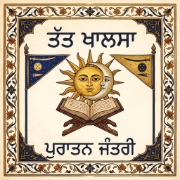
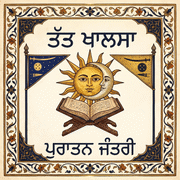
docs(meta): update site name and Open Graph metadata
Update site title and OG tags to reflect "Tat Khalsa" branding.
Replace social media image with an updated version and include
proper image metadata.

diff --git a/src/utils/icsExport.ts b/src/utils/icsExport.ts
@@ -14,7 +14,7 @@ import {
 } from './personalDates';
 
 /**
- * Pure RFC 5545 iCalendar (.ics) generator for Tatkhalsa Puratan Jantri.
+ * Pure RFC 5545 iCalendar (.ics) generator for Tat Khalsa Puratan Jantri.
  * Supports both selective observance export AND full 365-day daily Bikrami + Lunar date export
  * (combining same-day Purabs, Sangrands, Puranmashi, Masya, Shaheedi Divases, Barsis, and Personal Desi Dates cleanly into each daily VEVENT).
  */
@@ -159,7 +159,7 @@ export function generateJantriIcs(
 
       // Special observances appended after em-dash when checked
       const highlights: string[] = [];
-      const categories = new Set<string>(['Tatkhalsa Puratan Jantri', 'Daily Bikrami']);
+      const categories = new Set<string>(['Tat Khalsa Puratan Jantri', 'Daily Bikrami']);
 
       if (options.includeSangrands && solar.isSangrand) {
         highlights.push(
@@ -257,7 +257,7 @@ export function generateJantriIcs(
           description: isPa
             ? `ਪੁਰਾਤਨ ਬਿਕ੍ਰਮੀ ਸੰਗਰਾਂਦ (${meta.barahMahaRefPa})। ਸੰਕ੍ਰਾਂਤੀ (ਸ੍ਰੀ ਅਨੰਦਪੁਰ ਸਾਹਿਬ IST): ${sankrantiDual.amritsarTime}, ${sankrantiDual.amritsarDate}। ਬਾਰਹ ਮਾਹਾ: ${meta.pothiUrl}\nhttps://calendar.tatkhalsa.in/`
             : `Puratan Bikrami Sangrand (${meta.barahMahaRefEn}). Sankranti (Sri Anandpur Sahib IST): ${sankrantiDual.amritsarTime}, ${sankrantiDual.amritsarDate}. Read Barah Maha: ${meta.pothiUrl}\nhttps://calendar.tatkhalsa.in/`,
-          categories: 'Sangrand,Tatkhalsa Puratan Jantri',
+          categories: 'Sangrand,Tat Khalsa Puratan Jantri',
         });
       }
     }
@@ -282,7 +282,7 @@ export function generateJantriIcs(
               description: isPa
                 ? `ਪੁਰਾਤਨ ਬਿਕ੍ਰਮੀ ਚੰਦਰ ਤਿਥੀ: ${lunar.lunarMonthPa} ਸੁਦੀ ੧੫ (ਪੂਰਨਮਾਸ਼ੀ)। ਸੂਰਜੀ ਤਾਰੀਖ਼: ${toGurmukhiNumerals(solar.day)} ${solar.monthMeta.namePa}, ਸੰਮਤ ${toGurmukhiNumerals(solar.sambat)}। ਤਿਥੀ ਸਮਾਪਤੀ (ਸ੍ਰੀ ਅਨੰਦਪੁਰ ਸਾਹਿਬ IST): ${tithiDual.amritsarTime}, ${tithiDual.amritsarDate}\nhttps://calendar.tatkhalsa.in/`
                 : `Puratan Bikrami Lunar Tithi: ${lunar.lunarMonthEn} Sudhi 15 (Puranmashi). Solar Date: ${solar.day} ${solar.monthMeta.nameEn}, Sambat ${solar.sambat}. Tithi ends (Sri Anandpur Sahib IST): ${tithiDual.amritsarTime}, ${tithiDual.amritsarDate}\nhttps://calendar.tatkhalsa.in/`,
-              categories: 'Puranmashi,Tatkhalsa Puratan Jantri',
+              categories: 'Puranmashi,Tat Khalsa Puratan Jantri',
             });
           }
           if (options.includeMasya && lunar.isMasya) {
@@ -297,7 +297,7 @@ export function generateJantriIcs(
               description: isPa
                 ? `ਪੁਰਾਤਨ ਬਿਕ੍ਰਮੀ ਚੰਦਰ ਤਿਥੀ: ${lunar.lunarMonthPa} ਵਦੀ ੧੫ (ਮੱਸਿਆ)। ਸੂਰਜੀ ਤਾਰੀਖ਼: ${toGurmukhiNumerals(solar.day)} ${solar.monthMeta.namePa}, ਸੰਮਤ ${toGurmukhiNumerals(solar.sambat)}। ਤਿਥੀ ਸਮਾਪਤੀ (ਸ੍ਰੀ ਅਨੰਦਪੁਰ ਸਾਹਿਬ IST): ${tithiDual.amritsarTime}, ${tithiDual.amritsarDate}\nhttps://calendar.tatkhalsa.in/`
                 : `Puratan Bikrami Lunar Tithi: ${lunar.lunarMonthEn} Vadhi 15 (Masya). Solar Date: ${solar.day} ${solar.monthMeta.nameEn}, Sambat ${solar.sambat}. Tithi ends (Sri Anandpur Sahib IST): ${tithiDual.amritsarTime}, ${tithiDual.amritsarDate}\nhttps://calendar.tatkhalsa.in/`,
-              categories: 'Masya,Tatkhalsa Puratan Jantri',
+              categories: 'Masya,Tat Khalsa Puratan Jantri',
             });
           }
         }
@@ -324,7 +324,7 @@ export function generateJantriIcs(
         description: isPa
           ? `${toGurmukhiNumerals(solar.day)} ${solar.monthMeta.namePa} ${toGurmukhiNumerals(solar.sambat)} · ${ev.tithiRulePa}\nਤਿਥੀ ਸਮਾਪਤੀ (ਸ੍ਰੀ ਅਨੰਦਪੁਰ ਸਾਹਿਬ IST): ${tithiDual.amritsarTime}, ${tithiDual.amritsarDate}\n${ev.summaryPa}\nਹਵਾਲੇ: ${citationsLine}\nhttps://calendar.tatkhalsa.in/`
           : `${solar.day} ${solar.monthMeta.nameEn} ${solar.sambat} · ${ev.tithiRuleEn}\nTithi ends (Sri Anandpur Sahib IST): ${tithiDual.amritsarTime}, ${tithiDual.amritsarDate}\n${ev.summaryEn}\nSources: ${citationsLine}\nhttps://calendar.tatkhalsa.in/`,
-        categories: `${ev.category.toUpperCase()},Tatkhalsa Puratan Jantri`,
+        categories: `${ev.category.toUpperCase()},Tat Khalsa Puratan Jantri`,
       });
     }
 
@@ -349,7 +349,7 @@ export function generateJantriIcs(
               ...(pd.notes ? [pd.notes] : []),
               'https://calendar.tatkhalsa.in/',
             ].join('\n'),
-            categories: 'Personal Desi Date,Tatkhalsa Puratan Jantri',
+            categories: 'Personal Desi Date,Tat Khalsa Puratan Jantri',
           });
         }
       }
@@ -361,10 +361,10 @@ export function generateJantriIcs(
   const header = [
     'BEGIN:VCALENDAR',
     'VERSION:2.0',
-    'PRODID:-//Tatkhalsa Foundation//Tatkhalsa Puratan Jantri//EN',
+    'PRODID:-//Tatkhalsa Foundation//Tat Khalsa Puratan Jantri//EN',
     'CALSCALE:GREGORIAN',
     'METHOD:PUBLISH',
-    `X-WR-CALNAME:${isPa ? 'ਤੱਤਖ਼ਾਲਸਾ ਪੁਰਾਤਨ ਜੰਤਰੀ (੨੦੮੩–੨੦੮੪)' : 'Tatkhalsa Puratan Jantri (Sambat 2083–2084)'}`,
+    `X-WR-CALNAME:${isPa ? 'ਤੱਤਖ਼ਾਲਸਾ ਪੁਰਾਤਨ ਜੰਤਰੀ (੨੦੮੩–੨੦੮੪)' : 'Tat Khalsa Puratan Jantri (Sambat 2083–2084)'}`,
     'X-WR-TIMEZONE:Asia/Kolkata',
   ];
 
@@ -388,14 +388,14 @@ export function generateSingleDayIcs(
       date: isoDate,
       summary: title,
       description: `${description}\nhttps://calendar.tatkhalsa.in/`,
-      categories: 'Tatkhalsa Puratan Jantri',
+      categories: 'Tat Khalsa Puratan Jantri',
     },
     dtStamp,
   );
   return [
     'BEGIN:VCALENDAR',
     'VERSION:2.0',
-    'PRODID:-//Tatkhalsa Foundation//Tatkhalsa Puratan Jantri//EN',
+    'PRODID:-//Tatkhalsa Foundation//Tat Khalsa Puratan Jantri//EN',
     'CALSCALE:GREGORIAN',
     'METHOD:PUBLISH',
     eventBlock,

diff --git a/index.html b/index.html
@@ -3,7 +3,7 @@
   <head>
     <meta charset="UTF-8" />
     <meta name="viewport" content="width=device-width, initial-scale=1.0" />
-    <title>Tatkhalsa Puratan Jantri — Bikrami Sambat 2083–2084</title>
+    <title>Tat Khalsa Puratan Jantri — Bikrami Sambat 2083–2084</title>
     <meta
       name="description"
       content="Authentic Puratan Bikrami Sambat calendar by Tatkhalsa Foundation. Track Punjabi solar months, Sangrands, lunar tithis, Gurpurabs, and archival colophons."
@@ -13,34 +13,38 @@
     <!-- Open Graph / Social -->
     <meta property="og:type" content="website" />
     <meta property="og:url" content="https://calendar.tatkhalsa.in/" />
-    <meta property="og:site_name" content="Tatkhalsa Puratan Jantri" />
-    <meta property="og:title" content="Tatkhalsa Puratan Jantri — Bikrami Sambat 2083–2084" />
+    <meta property="og:site_name" content="Tat Khalsa Puratan Jantri" />
+    <meta property="og:title" content="Tat Khalsa Puratan Jantri — Bikrami Sambat 2083–2084" />
     <meta
       property="og:description"
       content="Authentic Puratan Bikrami Sambat calendar by Tatkhalsa Foundation. Track Punjabi solar months, Sangrands, lunar tithis, Gurpurabs, and archival colophons."
     />
-    <meta property="og:image" content="https://calendar.tatkhalsa.in/logo.png" />
-    <meta property="og:image:alt" content="Tatkhalsa Puratan Jantri — Bikrami Sambat 2083–2084" />
+    <meta property="og:image" content="https://calendar.tatkhalsa.in/og-jantri-v2.png" />
+    <meta property="og:image:secure_url" content="https://calendar.tatkhalsa.in/og-jantri-v2.png" />
+    <meta property="og:image:type" content="image/png" />
+    <meta property="og:image:width" content="1024" />
+    <meta property="og:image:height" content="1024" />
+    <meta property="og:image:alt" content="Tat Khalsa Puratan Jantri — Bikrami Sambat 2083–2084" />
     <meta property="og:locale" content="en_IN" />
     <meta property="og:locale:alternate" content="pa_IN" />
 
     <!-- Twitter / X -->
     <meta name="twitter:card" content="summary_large_image" />
-    <meta name="twitter:title" content="Tatkhalsa Puratan Jantri — Bikrami Sambat 2083–2084" />
+    <meta name="twitter:title" content="Tat Khalsa Puratan Jantri — Bikrami Sambat 2083–2084" />
     <meta
       name="twitter:description"
       content="Authentic Puratan Bikrami Sambat calendar by Tatkhalsa Foundation. Track Punjabi solar months, Sangrands, lunar tithis, Gurpurabs, and archival colophons."
     />
-    <meta name="twitter:image" content="https://calendar.tatkhalsa.in/logo.png" />
+    <meta name="twitter:image" content="https://calendar.tatkhalsa.in/og-jantri-v2.png" />
 
     <!-- PWA & Mobile Safari -->
     <meta name="theme-color" content="#FAF6EE" />
     <meta name="mobile-web-app-capable" content="yes" />
     <meta name="apple-mobile-web-app-capable" content="yes" />
     <meta name="apple-mobile-web-app-status-bar-style" content="default" />
-    <meta name="apple-mobile-web-app-title" content="Tatkhalsa" />
-    <link rel="apple-touch-icon" href="./apple-touch-icon.png" />
-    <link rel="icon" type="image/png" href="./logo.png" />
+    <meta name="apple-mobile-web-app-title" content="Tat Khalsa" />
+    <link rel="apple-touch-icon" href="./apple-touch-icon.png?v=2" />
+    <link rel="icon" type="image/png" href="./logo.png?v=2" />
 
     <!-- Typography: Archival Serif + Gurmukhi + Tabular Mono -->
     <link rel="preconnect" href="https://fonts.googleapis.com" />
@@ -55,7 +59,7 @@
       {
         "@context": "https://schema.org",
         "@type": "WebApplication",
-        "name": "Tatkhalsa Puratan Jantri",
+        "name": "Tat Khalsa Puratan Jantri",
         "alternateName": "ਤੱਤਖ਼ਾਲਸਾ ਪੁਰਾਤਨ ਜੰਤਰੀ",
         "url": "https://calendar.tatkhalsa.in",
         "applicationCategory": "ReferenceApplication",

diff --git a/src/components/Header.tsx b/src/components/Header.tsx
@@ -123,12 +123,12 @@ export const Header: React.FC<HeaderProps> = ({
             onClick={() => onSelectView('jantri')}
             className="flex items-center gap-2 sm:gap-2.5 text-left whitespace-nowrap shrink-0 min-w-0 cursor-pointer focus-visible:outline-2 focus-visible:outline-offset-2 focus-visible:outline-[var(--accent-primary)]"
             aria-label={
-              isPa ? 'ਤੱਤਖ਼ਾਲਸਾ ਪੁਰਾਤਨ ਜੰਤਰੀ — ਮੁੱਖ ਪੰਨਾ' : 'Tatkhalsa Puratan Jantri — Home'
+              isPa ? 'ਤੱਤਖ਼ਾਲਸਾ ਪੁਰਾਤਨ ਜੰਤਰੀ — ਮੁੱਖ ਪੰਨਾ' : 'Tat Khalsa Puratan Jantri — Home'
             }
           >
             <img
-              src="./logo.png"
-              alt={isPa ? 'ਤੱਤਖ਼ਾਲਸਾ ਪੁਰਾਤਨ ਜੰਤਰੀ ਮੋਹਰ' : 'Tatkhalsa Puratan Jantri Logo'}
+              src="./logo.png?v=2"
+              alt={isPa ? 'ਤੱਤਖ਼ਾਲਸਾ ਪੁਰਾਤਨ ਜੰਤਰੀ ਮੋਹਰ' : 'Tat Khalsa Puratan Jantri Logo'}
               width={36}
               height={36}
               className="w-9 h-9 sm:w-10 sm:h-10 rounded-lg border border-[var(--accent-gold)] object-cover shrink-0 shadow-xs bg-[#FAF6EE]"
@@ -140,7 +140,7 @@ export const Header: React.FC<HeaderProps> = ({
             >
               <span className="sm:hidden">{isPa ? 'ਪੁਰਾਤਨ ਜੰਤਰੀ' : 'Puratan Jantri'}</span>
               <span className="hidden sm:inline">
-                {isPa ? 'ਤੱਤਖ਼ਾਲਸਾ ਪੁਰਾਤਨ ਜੰਤਰੀ' : 'Tatkhalsa Puratan Jantri'}
+                {isPa ? 'ਤੱਤਖ਼ਾਲਸਾ ਪੁਰਾਤਨ ਜੰਤਰੀ' : 'Tat Khalsa Puratan Jantri'}
               </span>
             </span>
           </button>

diff --git a/src/components/PrintJantriView.tsx b/src/components/PrintJantriView.tsx
@@ -110,15 +110,15 @@ export const PrintJantriView: React.FC<PrintJantriViewProps> = ({
         <header className="flex flex-col sm:flex-row sm:items-end justify-between gap-3 border-b-2 border-[#1B263B] pb-3.5">
           <div className="flex items-center gap-3.5">
             <img
-              src="./logo.png"
-              alt="Tatkhalsa Puratan Jantri Seal"
+              src="./logo.png?v=2"
+              alt="Tat Khalsa Puratan Jantri Seal"
               width={48}
               height={48}
               className="w-12 h-12 rounded-lg border border-[#B8860B] object-cover shrink-0 bg-[#FAF6EE]"
             />
             <div>
               <p className="text-[11px] tracking-widest uppercase text-[#57534E]">
-                Tatkhalsa Foundation · calendar.tatkhalsa.in · Puratan Bikrami
+                Tat Khalsa Puratan Jantri · calendar.tatkhalsa.in · Puratan Bikrami
               </p>
               <h1
                 id="print-sheet-heading"

diff --git a/src/utils/shareDailyJantri.ts b/src/utils/shareDailyJantri.ts
@@ -43,7 +43,7 @@ export function buildDailyShareText(
   }
 
   const lines: string[] = [
-    '☬ Tatkhalsa Puratan Jantri · ਤੱਤਖ਼ਾਲਸਾ ਪੁਰਾਤਨ ਜੰਤਰੀ',
+    '☬ Tat Khalsa Puratan Jantri · ਤੱਤਖ਼ਾਲਸਾ ਪੁਰਾਤਨ ਜੰਤਰੀ',
     '',
     `Desi Date: ${desiEn}`,
     `ਦੇਸੀ ਤਾਰੀਖ਼: ${desiPa}`,
@@ -70,7 +70,7 @@ export async function shareDailyJantri(
   personalDates: PersonalDesiDate[] = [],
 ): Promise<ShareOutcome> {
   const text = buildDailyShareText(day, personalDates);
-  const title = `Tatkhalsa Puratan Jantri — ${day.solar.day} ${day.solar.monthMeta.nameEn}, Sambat ${day.solar.sambat}`;
+  const title = `Tat Khalsa Puratan Jantri — ${day.solar.day} ${day.solar.monthMeta.nameEn}, Sambat ${day.solar.sambat}`;
 
   if (typeof navigator !== 'undefined' && typeof navigator.share === 'function') {
     try {

diff --git a/vite.config.ts b/vite.config.ts
@@ -13,11 +13,11 @@ export default defineConfig(() => {
       tailwindcss(),
       VitePWA({
         registerType: 'autoUpdate',
-        includeAssets: ['logo.png', 'icon.svg', 'apple-touch-icon.png', 'pwa-192x192.png', 'pwa-512x512.png', 'pwa-maskable-512x512.png'],
+        includeAssets: ['logo.png', 'og-jantri-v2.png', 'apple-touch-icon.png', 'pwa-192x192.png', 'pwa-512x512.png', 'pwa-maskable-512x512.png'],
         manifest: {
           id: './',
-          name: 'Tatkhalsa Puratan Jantri',
-          short_name: 'Tatkhalsa',
+          name: 'Tat Khalsa Puratan Jantri',
+          short_name: 'Tat Khalsa',
           description: 'Authentic Puratan Bikrami Sambat calendar by Tatkhalsa Foundation with Sangrands, lunar tithis, Gurpurabs, and scriptural colophons.',
           theme_color: '#FAF6EE',
           background_color: '#FAF6EE',

diff --git a/src/components/PWAInstallButton.tsx b/src/components/PWAInstallButton.tsx
@@ -93,8 +93,8 @@ export const PWAInstallButton: React.FC<PWAInstallButtonProps> = ({
                       ? 'iPhone / iPad ’ਤੇ ਐਪ ਇੰਸਟਾਲ ਕਰੋ'
                       : 'Install on iPhone or iPad'
                     : isPa
-                      ? 'ਤੱਤਖ਼ਾਲਸਾ ਜੰਤਰੀ ਐਪ ਇੰਸਟਾਲ ਕਰੋ'
-                      : 'Install Tatkhalsa Puratan Jantri'}
+                      ? 'ਤੱਤਖ਼ਾਲਸਾ ਪੁਰਾਤਨ ਜੰਤਰੀ ਐਪ ਇੰਸਟਾਲ ਕਰੋ'
+                      : 'Install Tat Khalsa Puratan Jantri'}
                 </h3>
               </div>
               <button

diff --git a/src/App.tsx b/src/App.tsx
@@ -547,7 +547,7 @@ export default function App() {
             <p className="font-semibold text-[var(--text-heading)]">
               {isPa
                 ? 'ਤੱਤਖ਼ਾਲਸਾ ਫ਼ਾਊਂਡੇਸ਼ਨ · ਤੱਤਖ਼ਾਲਸਾ ਪੁਰਾਤਨ ਜੰਤਰੀ'
-                : 'Tatkhalsa Foundation · Tatkhalsa Puratan Jantri'}
+                : 'Tatkhalsa Foundation · Tat Khalsa Puratan Jantri'}
             </p>
             <p>
               {isPa

diff --git a/dev-dist/sw.js b/dev-dist/sw.js
@@ -81,7 +81,7 @@ define(['./workbox-afac4cd2'], (function (workbox) { 'use strict';
     "revision": "3ca0b8505b4bec776b69afdba2768812"
   }, {
     "url": "index.html",
-    "revision": "0.dash6ar0a"
+    "revision": "0.socfadtn34o"
   }], {});
   workbox.cleanupOutdatedCaches();
   workbox.registerRoute(new workbox.NavigationRoute(workbox.createHandlerBoundToURL("index.html"), {

diff --git a/src/utils/purabReminders.ts b/src/utils/purabReminders.ts
@@ -130,7 +130,7 @@ export function dispatchTomorrowPurabNotification(
   try {
     new Notification(isPa ? summary.titlePa : summary.titleEn, {
       body: isPa ? summary.bodyPa : summary.bodyEn,
-      icon: './logo.png',
+      icon: './logo.png?v=2',
       tag: `tatkhalsa-purab-${summary.tomorrowIso}`,
     });
     setLastNotifiedTomorrowIso(summary.tomorrowIso);
